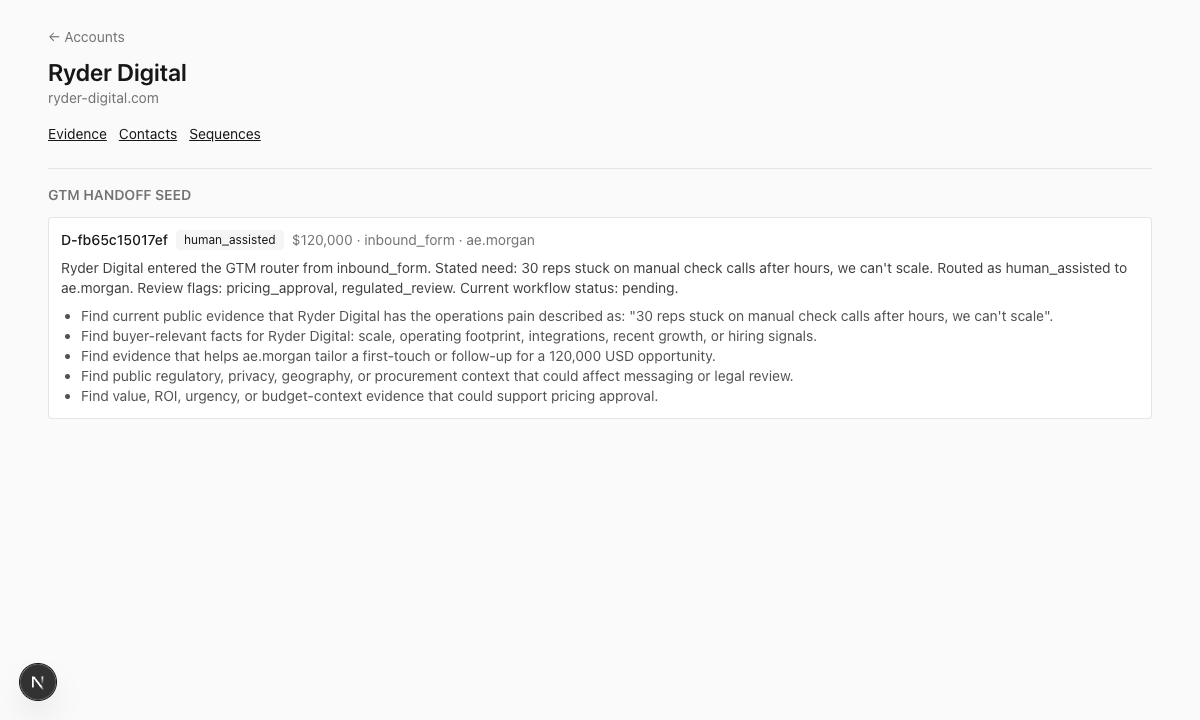
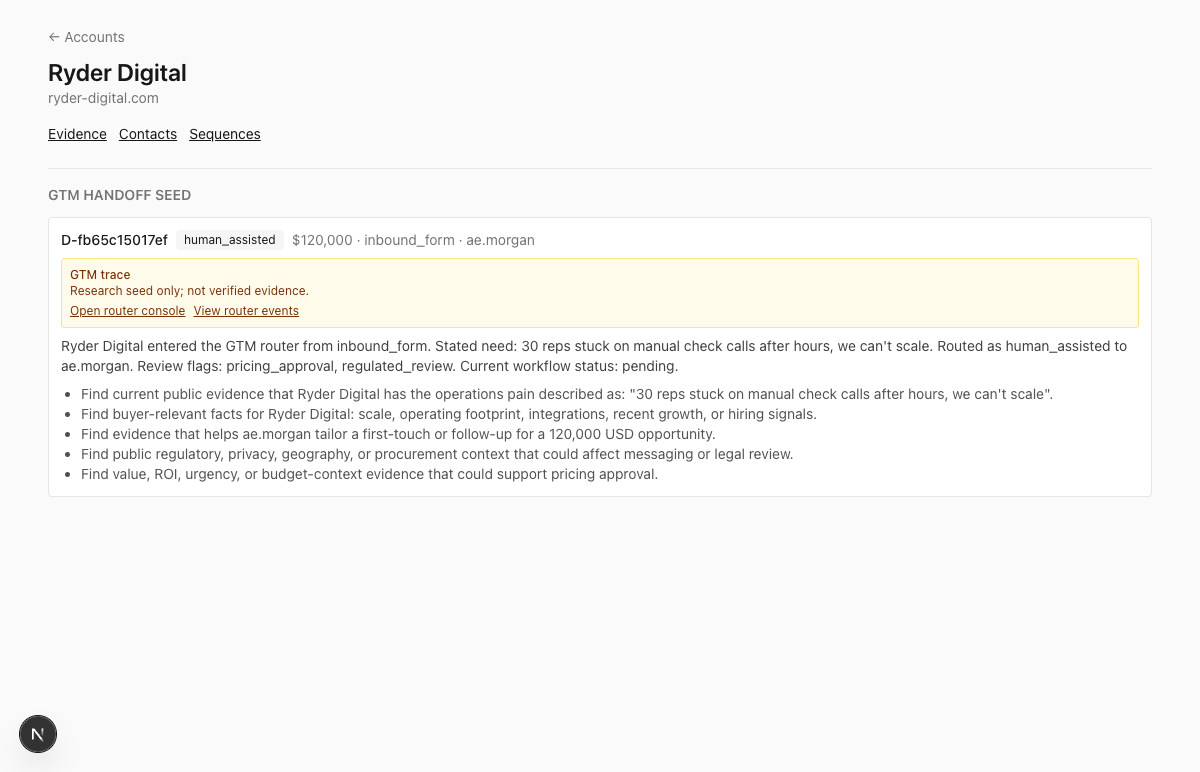
feat: surface GTM handoff trace

Changed region(s): [[0.0308, 0.2444, 0.9558, 0.6417], [0.0308, 0.0306, 0.2158, 0.2139], [0.0, 0.9167, 0.0617, 0.9778]]

diff --git a/app/accounts/[id]/page.tsx b/app/accounts/[id]/page.tsx
@@ -5,6 +5,37 @@ import Link from 'next/link';
 
 export const dynamic = 'force-dynamic';
 
+type GtmTracePayload = {
+  trace?: {
+    sourceSystem?: unknown;
+    evidenceBoundary?: unknown;
+  };
+  operatorLinks?: {
+    consoleUrl?: unknown;
+    eventsUrl?: unknown;
+  };
+};
+
+function parseGtmTracePayload(payloadJson: string): GtmTracePayload {
+  try {
+    const parsed = JSON.parse(payloadJson) as unknown;
+    return parsed && typeof parsed === 'object' ? parsed as GtmTracePayload : {};
+  } catch {
+    return {};
+  }
+}
+
+function safeHttpUrl(value: unknown): string | null {
+  if (typeof value !== 'string') return null;
+  try {
+    const parsed = new URL(value);
+    if (parsed.protocol !== 'http:' && parsed.protocol !== 'https:') return null;
+    return parsed.toString();
+  } catch {
+    return null;
+  }
+}
+
 export default async function AccountPage({ params }: { params: Promise<{ id: string }> }) {
   const { id } = await params;
   const account = db.select().from(schema.accounts).where(eq(schema.accounts.id, id)).get();
@@ -27,26 +58,49 @@ export default async function AccountPage({ params }: { params: Promise<{ id: st
             GTM handoff seed
           </h2>
           <ul className="mt-3 space-y-3">
-            {handoffs.map((handoff) => (
-              <li key={handoff.routerDealId} className="rounded border border-neutral-200 bg-white p-3">
-                <div className="flex flex-wrap items-center gap-2 text-sm">
-                  <span className="font-medium">{handoff.routerDealId}</span>
-                  <span className="rounded bg-neutral-100 px-2 py-0.5 text-xs">
-                    {handoff.routeKind}
-                  </span>
-                  <span className="text-neutral-500">
-                    ${handoff.amountUsd.toLocaleString()} · {handoff.sourceChannel}
-                    {handoff.salesOwner ? ` · ${handoff.salesOwner}` : ''}
-                  </span>
-                </div>
-                <p className="mt-2 text-sm text-neutral-700">{handoff.researchBrief}</p>
-                <ul className="mt-2 list-disc pl-5 text-sm text-neutral-600">
-                  {handoff.suggestedEvidenceQuestionsJson.map((question) => (
-                    <li key={question}>{question}</li>
-                  ))}
-                </ul>
-              </li>
-            ))}
+            {handoffs.map((handoff) => {
+              const tracePayload = parseGtmTracePayload(handoff.payloadJson);
+              const consoleUrl = safeHttpUrl(tracePayload.operatorLinks?.consoleUrl);
+              const eventsUrl = safeHttpUrl(tracePayload.operatorLinks?.eventsUrl);
+              return (
+                <li key={handoff.routerDealId} className="rounded border border-neutral-200 bg-white p-3">
+                  <div className="flex flex-wrap items-center gap-2 text-sm">
+                    <span className="font-medium">{handoff.routerDealId}</span>
+                    <span className="rounded bg-neutral-100 px-2 py-0.5 text-xs">
+                      {handoff.routeKind}
+                    </span>
+                    <span className="text-neutral-500">
+                      ${handoff.amountUsd.toLocaleString()} · {handoff.sourceChannel}
+                      {handoff.salesOwner ? ` · ${handoff.salesOwner}` : ''}
+                    </span>
+                  </div>
+                  <div className="mt-2 rounded border border-amber-200 bg-amber-50 p-2 text-xs text-amber-900">
+                    <div className="font-medium">GTM trace</div>
+                    <div>Research seed only; not verified evidence.</div>
+                    {(consoleUrl || eventsUrl) && (
+                      <div className="mt-1 flex flex-wrap gap-2">
+                        {consoleUrl && (
+                          <a className="underline" href={consoleUrl} target="_blank" rel="noreferrer">
+                            Open router console
+                          </a>
+                        )}
+                        {eventsUrl && (
+                          <a className="underline" href={eventsUrl} target="_blank" rel="noreferrer">
+                            View router events
+                          </a>
+                        )}
+                      </div>
+                    )}
+                  </div>
+                  <p className="mt-2 text-sm text-neutral-700">{handoff.researchBrief}</p>
+                  <ul className="mt-2 list-disc pl-5 text-sm text-neutral-600">
+                    {handoff.suggestedEvidenceQuestionsJson.map((question) => (
+                      <li key={question}>{question}</li>
+                    ))}
+                  </ul>
+                </li>
+              );
+            })}
           </ul>
         </section>
       )}

diff --git a/scripts/import-gtm-handoff.ts b/scripts/import-gtm-handoff.ts
@@ -1,17 +1,53 @@
 import { importGtmHandoffFile } from '@/lib/gtm-handoff/import';
-import { sqlite } from '@/db';
+import { sqlite, sqlitePath } from '@/db';
+import fs from 'node:fs';
+import pathModule from 'node:path';
 
-function usage(): never {
-  console.error('usage: pnpm import:gtm-handoff <path-to-sales-handoff.json>');
+function usage(message?: string): never {
+  if (message) console.error(message);
+  console.error('usage: pnpm import:gtm-handoff <path-to-sales-handoff.json> [--out result.json]');
   process.exit(2);
 }
 
-const path = process.argv[2];
-if (!path) usage();
+const args = process.argv.slice(2);
+// pnpm may forward the script delimiter as a literal first arg.
+// Strip that delimiter, then parse the actual importer arguments normally.
+if (args[0] === '--') args.shift();
+const positionals: string[] = [];
+let outPath: string | undefined;
+for (let i = 0; i < args.length; i += 1) {
+  const arg = args[i];
+  if (arg.startsWith('--out=')) {
+    outPath = arg.slice('--out='.length);
+    if (!outPath) usage();
+    continue;
+  }
+  if (arg === '--out') {
+    outPath = args[i + 1];
+    if (!outPath || outPath.startsWith('--')) usage();
+    i += 1;
+    continue;
+  }
+  if (arg.startsWith('--')) usage(`unknown flag: ${arg}`);
+  positionals.push(arg);
+}
+if (positionals.length !== 1) usage();
+const inputPath = positionals[0];
 
 try {
-  const result = importGtmHandoffFile(path);
-  console.log(JSON.stringify(result, null, 2));
+  const result = importGtmHandoffFile(inputPath);
+  const cliResult = { ...result, databasePath: sqlitePath };
+  const json = `${JSON.stringify(cliResult, null, 2)}\n`;
+  if (outPath) {
+    const resolvedOutPath = pathModule.resolve(outPath);
+    fs.mkdirSync(pathModule.dirname(resolvedOutPath), { recursive: true });
+    fs.writeFileSync(resolvedOutPath, json);
+    console.error(
+      `Imported ${result.imported.length} GTM handoff account(s); wrote result to ${resolvedOutPath}`,
+    );
+  } else {
+    console.log(json.trimEnd());
+  }
 } finally {
   sqlite.close();
 }

diff --git a/tests/integration/gtm-handoff-import.test.ts b/tests/integration/gtm-handoff-import.test.ts
@@ -39,6 +39,14 @@ const basePayload = {
   accounts: [
     {
       routerDealId: 'D-ryder',
+      trace: {
+        sourceSystem: 'gtm-ops-router',
+        evidenceBoundary: 'research_seed_not_verified_evidence',
+      },
+      operatorLinks: {
+        consoleUrl: 'http://localhost:8787/?deal=D-ryder',
+        eventsUrl: 'http://localhost:8787/deals/D-ryder/events',
+      },
       account: {
         name: 'Ryder Digital',
         domain: 'Ryder-Digital.com',
@@ -129,6 +137,15 @@ describe('GTM handoff import', () => {
     expect(handoffs[0]?.suggestedEvidenceQuestionsJson).toEqual(
       basePayload.accounts[0].salesToolInput.suggestedEvidenceQuestions,
     );
+    const storedPayload = JSON.parse(handoffs[0]?.payloadJson ?? '{}');
+    expect(storedPayload.trace).toEqual({
+      sourceSystem: 'gtm-ops-router',
+      evidenceBoundary: 'research_seed_not_verified_evidence',
+    });
+    expect(storedPayload.operatorLinks).toEqual({
+      consoleUrl: 'http://localhost:8787/?deal=D-ryder',
+      eventsUrl: 'http://localhost:8787/deals/D-ryder/events',
+    });
     expect(evidence).toHaveLength(0);
   });
 
@@ -163,5 +180,12 @@ describe('GTM handoff import', () => {
     expect(() =>
       importGtmHandoffPayload({ ...basePayload, schemaVersion: 'wrong.v1' }),
     ).toThrow();
+  });
+
+  it('rejects non-http operator links', () => {
+    const payload = structuredClone(basePayload);
+    payload.accounts[0].operatorLinks.consoleUrl = 'javascript:alert(1)';
+
+    expect(() => importGtmHandoffPayload(payload)).toThrow();
   });
 });

diff --git a/db/index.ts b/db/index.ts
@@ -9,20 +9,28 @@ declare global {
   var __salesDb: ReturnType<typeof drizzle<typeof schema>> | undefined;
   // eslint-disable-next-line no-var
   var __salesSqlite: Database.Database | undefined;
+  // eslint-disable-next-line no-var
+  var __salesSqlitePath: string | undefined;
+}
+
+function resolveDbPath() {
+  return process.env.SALES_DB_PATH
+    ? path.resolve(process.env.SALES_DB_PATH)
+    : path.resolve(process.cwd(), 'data/sales.db');
 }
 
 function createDb() {
-  const dbPath = process.env.SALES_DB_PATH
-    ? path.resolve(process.env.SALES_DB_PATH)
-    : path.resolve(process.cwd(), 'data/sales.db');
+  const dbPath = resolveDbPath();
   fs.mkdirSync(path.dirname(dbPath), { recursive: true });
   const sqlite = new Database(dbPath);
   sqlite.pragma('journal_mode = WAL');
   sqlite.pragma('foreign_keys = ON');
   globalThis.__salesSqlite = sqlite;
+  globalThis.__salesSqlitePath = dbPath;
   return drizzle(sqlite, { schema });
 }
 
 export const db = globalThis.__salesDb ?? (globalThis.__salesDb = createDb());
 export const sqlite = globalThis.__salesSqlite!;
+export const sqlitePath = globalThis.__salesSqlitePath ?? resolveDbPath();
 export { schema };

diff --git a/lib/gtm-handoff/import.ts b/lib/gtm-handoff/import.ts
@@ -7,9 +7,22 @@ import { newId } from '@/lib/id';
 export const GTM_HANDOFF_SCHEMA_VERSION = 'gtm-ops-router.sales-handoff.v1';
 
 const RouteKind = z.enum(['human_assisted', 'self_serve', 'nurture']);
+const EvidenceBoundary = z.literal('research_seed_not_verified_evidence');
+const SafeHttpUrl = z.string().url().refine((value) => {
+  const parsed = new URL(value);
+  return parsed.protocol === 'http:' || parsed.protocol === 'https:';
+}, 'operator links must use http or https');
 
 const GtmHandoffAccount = z.object({
   routerDealId: z.string().min(1),
+  trace: z.object({
+    sourceSystem: z.literal('gtm-ops-router'),
+    evidenceBoundary: EvidenceBoundary,
+  }).passthrough(),
+  operatorLinks: z.object({
+    consoleUrl: SafeHttpUrl,
+    eventsUrl: SafeHttpUrl,
+  }).passthrough().optional(),
   account: z.object({
     name: z.string().min(1),
     domain: z.string().nullable(),

diff --git a/README.md b/README.md
@@ -23,11 +23,12 @@ critic workflow before they appear in outreach.
 Import a router export into Sales:
 
 ```bash
-pnpm import:gtm-handoff ../gtm-ops-router/data/sales-handoff.json
+pnpm import:gtm-handoff -- ../gtm-ops-router/data/sales-handoff.json
 ```
 
 The importer creates or reuses accounts and contacts, stores the router handoff
-as a `gtm_handoff_imports` record, and leaves the Evidence table untouched until
+as a `gtm_handoff_imports` record, renders a GTM trace card back to the router
+when operator links are present, and leaves the Evidence table untouched until
 you capture and audit public sources.
 
 ## Demo
@@ -43,12 +44,12 @@ Full cross-repo walkthrough: see [the demo script](https://github.com/gorajing/g
 just the Sales side:
 
 ```bash
-pnpm import:gtm-handoff ../gtm-ops-router/data/sales-handoff.sample.json
+pnpm import:gtm-handoff -- ../gtm-ops-router/data/sales-handoff.sample.json
 pnpm dev   # http://localhost:3000
 ```
 
-The account shows the router seed; the Evidence table stays empty until you
-capture and audit public sources.
+The account shows the router seed and a "research seed only" trace warning; the
+Evidence table stays empty until you capture and audit public sources.
 
 ## Requirements
 - macOS with the `claude` CLI installed and logged into a Claude Max 20 account